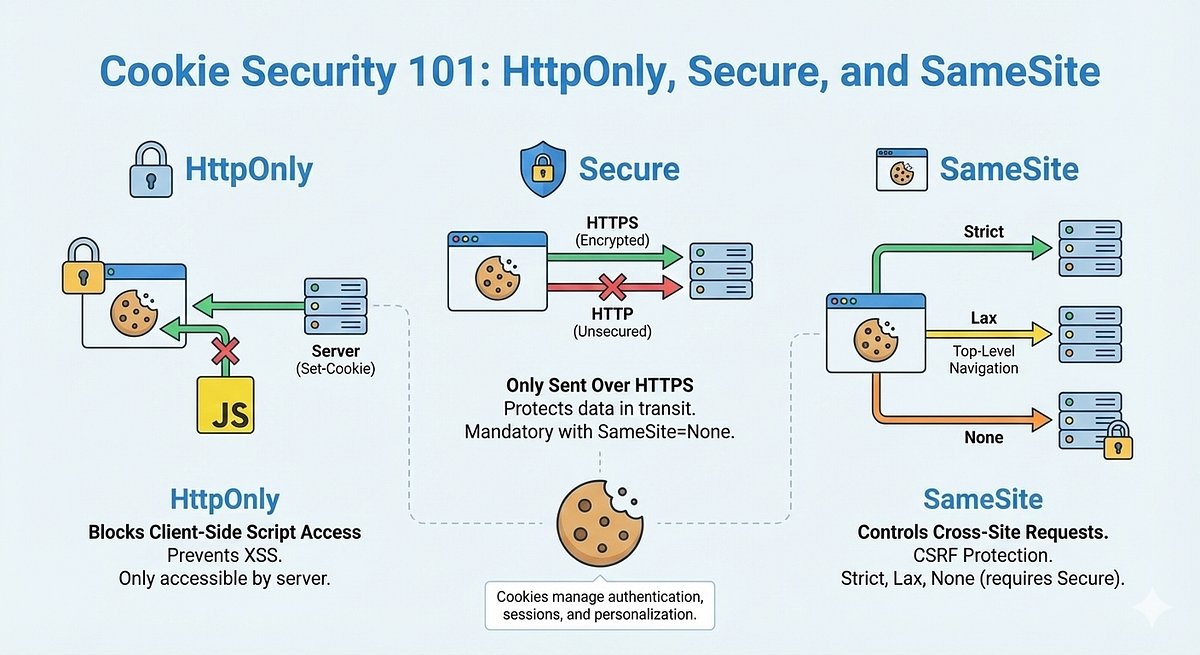
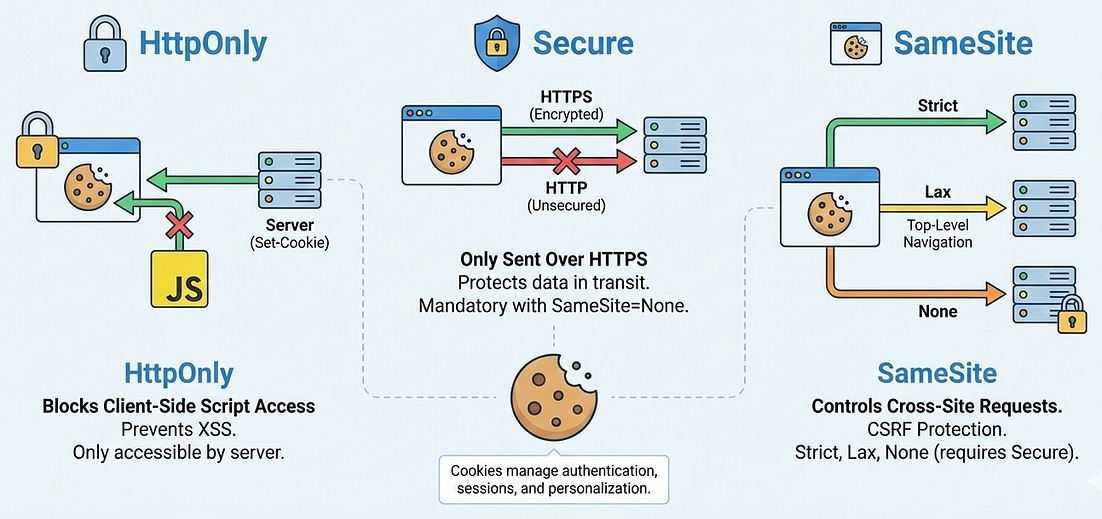
cookie

diff --git a/stem/it/computer-science/computer-networking/communication-protocol/protocol-layer/application-layer/http.md b/stem/it/computer-science/computer-networking/communication-protocol/protocol-layer/application-layer/http.md
@@ -161,22 +161,32 @@
     - [Set-Cookie](#http-cookie-cookie)
 
 # HTTP Cookie (Cookie)
-<div align="center"><img src="./image/cookie.png" width="50%"></div>
-
 - ### Types of Cookie
     - #### Session Cookie
     - #### Persistent Cookie
     - #### First-Party/Third-Party Cookie
 - ### Cookie Attribute
-    <img src="./image/cookie-attribute.png" width="65%">
-
-    - #### HttpOnly
-    - #### Secure
-    - #### SameSite
+    <img src="./image/cookie-attribute.png" width="70%">
+    
+    |Attribute|Description|
+    |:---:|:---:|
+    |`Domain=x`|The Host x allowed to receive the cookie|
+    |`Path=x`|The URL Path x allowed to receive the cookie|
+    |`Expires=x`|the browser deletes the cookie at Date x|
+    |`Max-Age=x`|the browser deletes the cookie after x Seconds|
+    |`Secure`|cookie can only be transmitted over an Encrypted Connection (HTTPS)|
+    |`HttpOnly`|cookie cannot be accessed by Client-Side Scripting|
+    |`SameSite=Strict`<br>`SameSite=Lax`<br>`SameSite=None`|Strict：sent for Same-Site requests only<br> Lax：sent for Safe Requests only<br> None：sent for All requests|
+    - eg
+        ```http
+        HTTP/1.1 200 OK
+        Set-Cookie: SSID=Ap4P…GTEq; Domain=foo.com; Path=/; Expires=Wed, 13 Jan 2021 22:23:01 GMT; Secure; HttpOnly; SameSite=Strict
+        ```
 - ### Uses
-    - #### Session Management
-    - #### Personalization
-    - #### [Web Tracking](../../communication-protocol.md#web-tracking)
+    - ### Session Management
+        <img src="./image/cookie.png" width="50%">
+    - ### Personalization
+    - ### [Web Tracking](../../communication-protocol.md#web-tracking)
 
 # HTTP ETag
 

diff --git a/stem/it/computer-science/computer-networking/communication-protocol/communication-protocol.md b/stem/it/computer-science/computer-networking/communication-protocol/communication-protocol.md
@@ -39,6 +39,7 @@
     - #### [HTTP ETag](./protocol-layer/application-layer/http.md#http-etag)
     - #### [IP Address](./protocol-layer/network-layer/ip.md#ip-address)
 - ### Browser Fingerprinting
+    - #### Canvas Fingerprinting
 - ### Web Beacon
 - ### Retargeting
     <img src="./image/retargeting.png" width="60%">